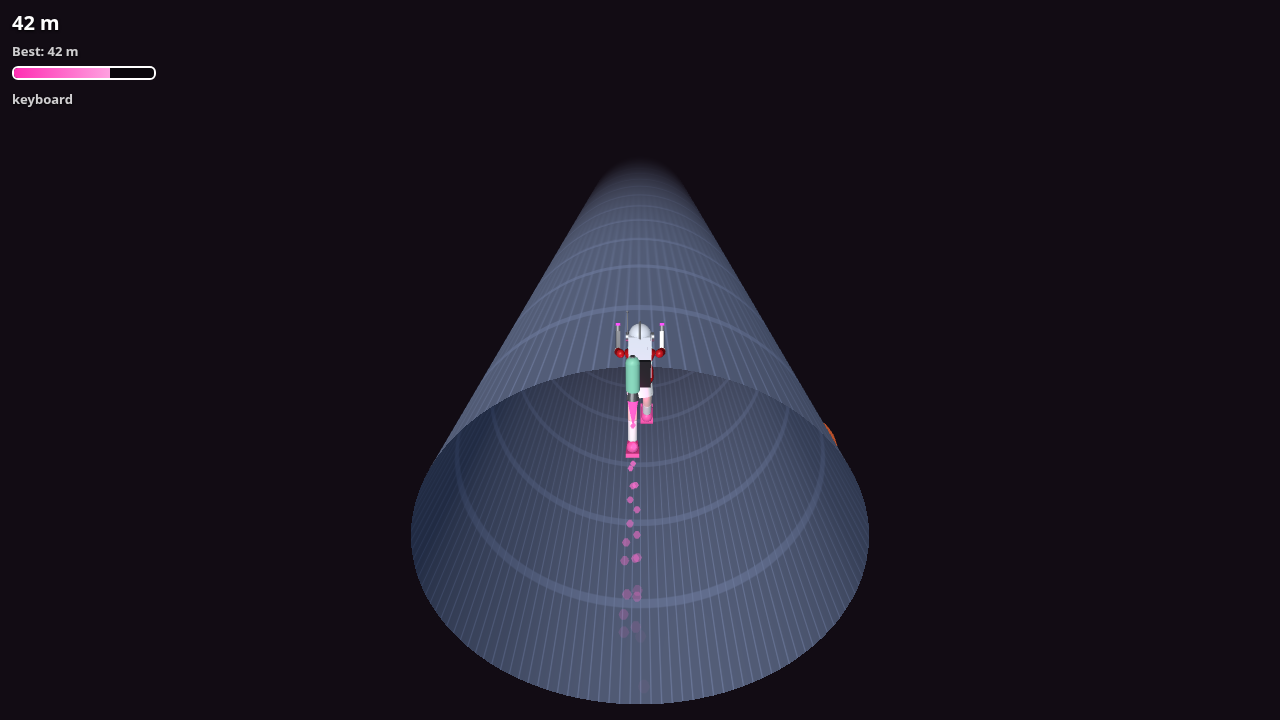
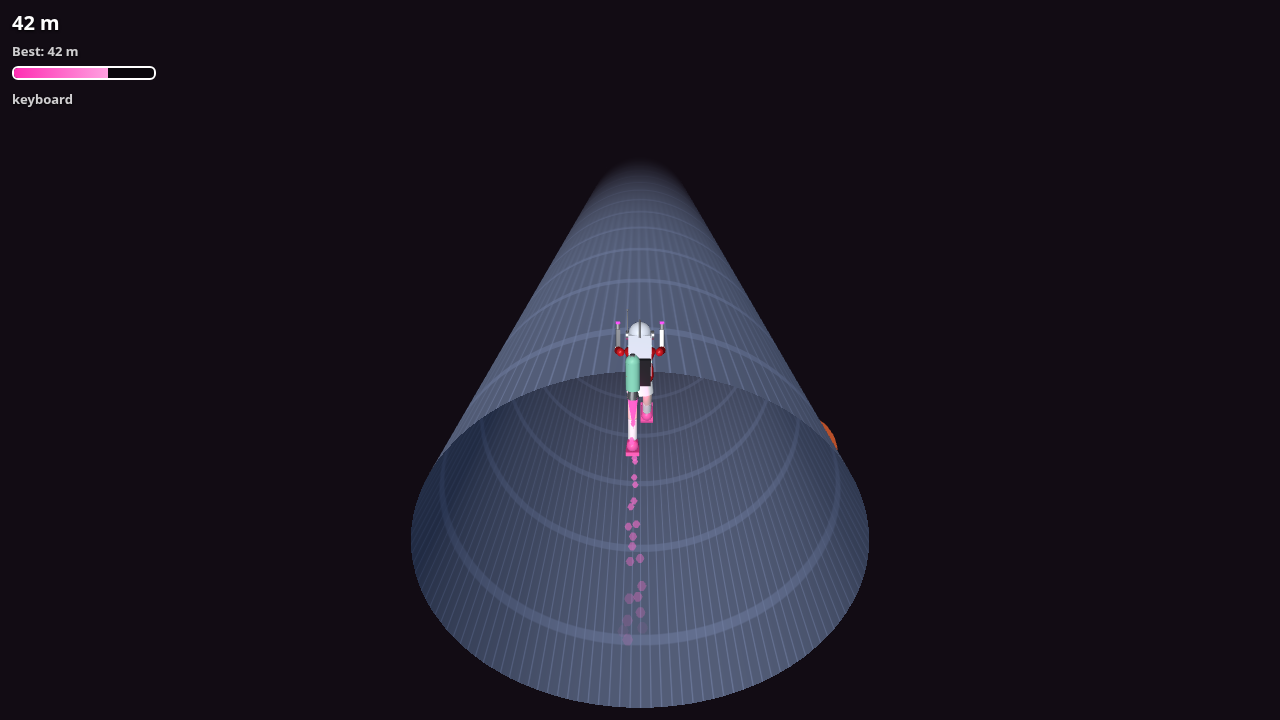
Enterable gaps (5s inside + ramp out), electric gaps, top speed 200, substep collision

diff --git a/index.html b/index.html
@@ -25,27 +25,27 @@ canvas{display:block;touch-action:none}
 <div id="over"><h1>Game Over</h1><div id="final"></div><button id="restart">Restart</button><small style="margin-top:8px;opacity:.7">Space / tap to restart</small></div>
 <script type="module">
 import * as THREE from 'three';
-const R=14, BASE=14.4, RAMP=0.5, RAMP_T=10, CAP=72, TURN_RATE=18/R /* ~74deg/s, 18 m/s surface (was 16) */, HOP_H=1.6, THRUST=36, VY_MAX=7.5, FUEL_TIME=1.6, FUEL_REFILL=0.7, MAX_ALT=9, JUMP_H=HOP_H, G=18,
+const R=14, BASE=14.4, RAMP=0.5, RAMP_T=10, CAP=200, TURN_RATE=18/R /* ~74deg/s, 18 m/s surface (was 16) */, HOP_H=1.6, THRUST=36, VY_MAX=7.5, FUEL_TIME=1.6, FUEL_REFILL=0.7, MAX_ALT=9, JUMP_H=HOP_H, G=18,
   V0=Math.sqrt(2*G*JUMP_H), COYOTE=0.12, BUFFER=0.1, CAM_D=10.5, CAM_H=8.5, CAM_FOLLOW=4.5;
 const renderer=new THREE.WebGLRenderer({antialias:true});
 renderer.setPixelRatio(Math.min(devicePixelRatio,2));renderer.setSize(innerWidth,innerHeight);
 document.body.appendChild(renderer.domElement);
 const scene=new THREE.Scene();scene.background=new THREE.Color(0x120c14);scene.fog=new THREE.Fog(0x120c14,40,150);
 {const dimSun=new THREE.Mesh(new THREE.SphereGeometry(14,24,16),new THREE.MeshBasicMaterial({color:0xb8502a,fog:false}));dimSun.position.set(-60,-150,-90);scene.add(dimSun);}
-const camera=new THREE.PerspectiveCamera(70,innerWidth/innerHeight,0.1,400);
+const camera=new THREE.PerspectiveCamera(70,innerWidth/innerHeight,0.1,2000);
 scene.add(new THREE.HemisphereLight(0xbfd8ff,0x202030,1.1));
 const sun=new THREE.DirectionalLight(0xffffff,1.2);sun.position.set(10,30,10);scene.add(sun);scene.add(camera);const camLight=new THREE.DirectionalLight(0xffffff,1.4);camLight.position.set(0,2,1);camera.add(camLight);camLight.target.position.set(0,0,-10);camera.add(camLight.target);
 // tube: vertical cylinder along Y, Vic runs downward (-Y). Texture scrolls to show motion.
 const cv=document.createElement('canvas');cv.width=256;cv.height=256;const cx=cv.getContext('2d');
 cx.fillStyle='#2a3350';cx.fillRect(0,0,256,256);cx.fillStyle='#3d4a75';cx.fillRect(0,0,256,24);
 cx.fillStyle='#4f5f95';for(let i=0;i<8;i++)cx.fillRect(i*32,0,3,256);
-const tex=new THREE.CanvasTexture(cv);tex.wrapS=tex.wrapT=THREE.RepeatWrapping;tex.repeat.set(14,60);
+const tex=new THREE.CanvasTexture(cv);tex.wrapS=tex.wrapT=THREE.RepeatWrapping;tex.repeat.set(14,300);
 const GAPN=4,gapU={value:Array.from({length:GAPN},()=>new THREE.Vector2(1e5,1e5))};
 const tubeMat=new THREE.MeshStandardMaterial({map:tex,roughness:.8,side:THREE.DoubleSide});
 tubeMat.onBeforeCompile=sh=>{sh.uniforms.gaps=gapU;
  sh.vertexShader=sh.vertexShader.replace('#include <common>','#include <common>\nvarying float vWY;').replace('#include <project_vertex>','#include <project_vertex>\nvWY=(modelMatrix*vec4(transformed,1.0)).y;');
  sh.fragmentShader=sh.fragmentShader.replace('#include <common>','#include <common>\nvarying float vWY;uniform vec2 gaps['+GAPN+'];').replace('void main() {','void main() {\nfor(int i=0;i<'+GAPN+';i++){if(vWY>gaps[i].x&&vWY<gaps[i].y)discard;}');};
-const tube=new THREE.Mesh(new THREE.CylinderGeometry(R,R,600,96,1,true),tubeMat);tube.position.y=-150;
+const tube=new THREE.Mesh(new THREE.CylinderGeometry(R,R,3000,96,1,true),tubeMat);tube.position.y=-1400;
 scene.add(tube);
 // Vic placeholder capsule (no reference model found) — FLAGGED
 const vic=new THREE.Group();
@@ -111,7 +111,7 @@ const OBS_HALF={t:1.5,r:0.45,a:0.3};
 const meteors=[],craters=[],gaps=[];let pad=null;let st,camTheta0=true;const obstacles=[];
 const best=()=>+(localStorage.getItem('vicRouteBest')||0);
 function reset(){for(const o of obstacles)scene.remove(o.mesh);obstacles.length=0;if(typeof clearMeteors==='function')clearMeteors();if(typeof clearGaps==='function')clearGaps();
- st={theta:0,y:0,vy:0,grounded:true,lastGround:0,bufferT:-1,speed:BASE,t:0,dist:0,spawnIn:1.5,over:false,frames:0,impacts:0,meteorIn:0,killedBy:null,spawnLo:1.8,spawnHi:3.2,difficulty:0,gapIn:8,gapsCrossed:0,boost:0,boosted:false,padAy:-50,padDone:false,te:0,spins:0,jumps:0,fuel:1,thrusting:false,jumpT:0,maxY:0,camTheta:0,lean:0};camTheta0=true;
+ st={theta:0,y:0,vy:0,grounded:true,lastGround:0,bufferT:-1,speed:BASE,t:0,dist:0,spawnIn:1.5,over:false,frames:0,impacts:0,meteorIn:0,killedBy:null,spawnLo:1.8,spawnHi:3.2,difficulty:0,gapIn:8,side:'out',prevS:R,zone:'tube',entered:0,exited:0,inDur:0,inT0:0,electricCrossed:0,gapsCrossed:0,boost:0,boosted:false,padAy:-50,padDone:false,te:0,spins:0,jumps:0,fuel:1,thrusting:false,jumpT:0,maxY:0,camTheta:0,lean:0};camTheta0=true;
  document.getElementById('over').style.display='none';if(pad){pad.visible=true;placePad();}}
 reset();
 const keys={left:false,right:false,jump:false};const touchHold={left:false,right:false,jump:false};const tapPend={left:0,right:0};
@@ -141,15 +141,15 @@ document.addEventListener('touchmove',e=>e.preventDefault(),{passive:false});
 document.addEventListener('gesturestart',e=>e.preventDefault());
 document.getElementById('restart').addEventListener('click',()=>reset());
 addEventListener('resize',()=>{camera.aspect=innerWidth/innerHeight;camera.updateProjectionMatrix();renderer.setSize(innerWidth,innerHeight);});
-function spawn(th){const m=new THREE.Mesh(obsGeo,obsMat);const o={mesh:m,theta:th??Math.random()*Math.PI*2,ay:-90};
+function spawn(th){const m=new THREE.Mesh(obsGeo,obsMat);const o={mesh:m,theta:th??Math.random()*Math.PI*2,ay:SPAWN_AY()};
  scene.add(m);obstacles.push(o);placeObs(o);return o.theta;}
 function placeObs(o){const r=R+OBS_HALF.r;o.mesh.position.set(Math.sin(o.theta)*r,o.ay,Math.cos(o.theta)*r);o.mesh.rotation.set(0,o.theta,0);}
 function angDiff(a,b){let d=a-b;d=Math.atan2(Math.sin(d),Math.cos(d));return d;}
-function collide(o){if(!st.grounded)return false; // spec: collision only while not airborne
+function collide(o){if(!st.grounded||st.side!=='out')return false; // spec: collision only while not airborne
  const arc=Math.abs(angDiff(o.theta,st.theta))*R; const ax=Math.abs(o.ay-0);
  return arc<VIC_HALF.x+OBS_HALF.t && ax<VIC_HALF.z+OBS_HALF.a && st.y<OBS_HALF.r*2;}
 function gameOver(by){st.over=true;st.killedBy=by||'barrier';const m=Math.floor(st.dist);if(m>best())localStorage.setItem('vicRouteBest',m);
- document.getElementById('final').textContent=`${st.killedBy==='barrier'?'':st.killedBy==='gap'?'Fell into the gap! ':'Knocked out by a '+st.killedBy+'! '}${m} m — Best ${best()} m`;document.getElementById('over').style.display='flex';}
+ document.getElementById('final').textContent=`${st.killedBy==='barrier'?'':st.killedBy==='gap'?'Fell into the gap! ':st.killedBy==='electric'?'Electrocuted! ':'Knocked out by a '+st.killedBy+'! '}${m} m — Best ${best()} m`;document.getElementById('over').style.display='flex';}
 
 // ---------- Boost pad ----------
 const surf=(th,h,ay,v=new THREE.Vector3())=>v.set(Math.sin(th)*(R+h),ay,Math.cos(th)*(R+h));
@@ -167,30 +167,64 @@ function updatePad(dt){if(st.padDone)return;st.padAy+=st.speed*dt;placePad();pad
 placePad();
 
 // ---------- Tube gaps ----------
+// Two kinds. 'enter': open cut (hole) -> drop inside, run on inner wall ~5s, flared ramp lifts her back out over a short exit cut.
+// 'electric': covered cut with live energy field; touching it = death; must jump+jetpack over.
 // Max airtime with full fuel: hop 0.12s + thrust FUEL_TIME (vy capped VY_MAX, alt capped MAX_ALT) + free fall from MAX_ALT.
 const AIR_MAX=0.12+FUEL_TIME+Math.sqrt(2*MAX_ALT/G); // ~2.72s
 const HOP_AIR=2*V0/G;                                  // ~0.84s (tap only - not enough)
-const GAP_AIR=1.35;                                    // gap needs 1.35s airtime: > hop, ~50% of max
-const stripeTex=(()=>{const c=document.createElement('canvas');c.width=256;c.height=32;const x=c.getContext('2d');x.fillStyle='#111';x.fillRect(0,0,256,32);x.fillStyle='#ffcc00';
- for(let i=-2;i<20;i++){x.beginPath();x.moveTo(i*16,32);x.lineTo(i*16+8,32);x.lineTo(i*16+24,0);x.lineTo(i*16+16,0);x.fill();}const t=new THREE.CanvasTexture(c);t.wrapS=THREE.RepeatWrapping;t.repeat.set(10,1);return t;})();
-const stripeMat=new THREE.MeshBasicMaterial({map:stripeTex,side:THREE.DoubleSide,fog:false});
-const edgeMat=new THREE.MeshBasicMaterial({color:0xff4020,fog:false});
-function gapLen(sp){return sp*GAP_AIR;}
-function spawnGap(near){const L=gapLen(st.speed);if(near===undefined)near=-90-st.speed*2;
- const grp=new THREE.Group();
- const band=(y)=>{const m=new THREE.Mesh(new THREE.CylinderGeometry(R+0.03,R+0.03,3,96,1,true),stripeMat);m.position.y=y;grp.add(m);};
- const ring=(y)=>{const m=new THREE.Mesh(new THREE.TorusGeometry(R+0.05,0.18,8,96),edgeMat);m.rotation.x=Math.PI/2;m.position.y=y;grp.add(m);};
- /* no warning visuals: clean cut only (shader discard) */
- scene.add(grp);const g={near,L,grp};gaps.push(g);grp.position.y=near;return g;}
-function overGap(){for(const g of gaps)if(0<g.near&&0>g.near-g.L)return g;return null;}
+const GAP_AIR=1.35;                                    // electric gap needs 1.35s airtime: > hop, ~50% of max
+const INSIDE_T=5, FLARE_H=3, DEEP=4.5;
+const SPAWN_AY=()=>-Math.max(90,st.speed*1.5);
+const flareMat=new THREE.MeshStandardMaterial({map:tex,roughness:.8,side:THREE.DoubleSide});
+const coverMat=new THREE.MeshBasicMaterial({color:0x66ccff,transparent:true,opacity:.25,side:THREE.DoubleSide,blending:THREE.AdditiveBlending,depthWrite:false});
+const arcMat=new THREE.LineBasicMaterial({color:0xe8f6ff,transparent:true,opacity:.95,blending:THREE.AdditiveBlending,depthWrite:false});
+const ARCS=16,ARC_SEG=10;
+function spawnGap(near,kind){const sp=st.speed;if(near===undefined)near=SPAWN_AY()-sp*2;if(!kind)kind=Math.random()<0.5?'electric':'enter';
+ const grp=new THREE.Group();const g={kind,near,grp};
+ if(kind==='electric'){g.L=sp*GAP_AIR;
+  const cov=new THREE.Mesh(new THREE.CylinderGeometry(R+0.02,R+0.02,g.L,96,1,true),coverMat.clone());cov.position.y=-g.L/2;grp.add(cov);g.cover=cov;
+  const geo=new THREE.BufferGeometry();geo.setAttribute('position',new THREE.BufferAttribute(new Float32Array(ARCS*ARC_SEG*2*3),3));
+  const arcs=new THREE.LineSegments(geo,arcMat);arcs.frustumCulled=false;grp.add(arcs);g.arcs=arcs;g.arcT=0;
+  const lt=new THREE.PointLight(0x88ccff,40,30);lt.position.set(0,-4,R+2);grp.add(lt);g.light=lt;
+  // edge arcs ring along the rims make it read as a live field
+ } else {g.Lo=Math.max(5,sp*0.55);g.Li=sp*INSIDE_T;g.Lf=Math.max(8,sp*0.4);g.Le=Math.max(4,sp*0.3);g.L=g.Lo+g.Li+g.Lf+g.Le;
+  const fl=new THREE.Mesh(new THREE.CylinderGeometry(R,R+FLARE_H,g.Lf,96,1,true),flareMat);fl.position.y=-(g.Lo+g.Li+g.Lf/2);grp.add(fl);}
+ scene.add(grp);gaps.push(g);grp.position.y=near;if(g.arcs)zapArcs(g);return g;}
+function zapArcs(g){const a=g.arcs.geometry.attributes.position.array;let k=0;
+ for(let i=0;i<ARCS;i++){let th=Math.random()*Math.PI*2,y=-Math.random()*g.L;const len=4+Math.random()*12;
+  for(let j=0;j<ARC_SEG;j++){const th2=th+(Math.random()-.5)*0.25,y2=Math.max(-g.L,Math.min(0,y-len/ARC_SEG+(Math.random()-.5)*1.5)),h=0.1+Math.random()*0.5;
+   a[k++]=Math.sin(th)*(R+h);a[k++]=y;a[k++]=Math.cos(th)*(R+h);a[k++]=Math.sin(th2)*(R+h);a[k++]=y2;a[k++]=Math.cos(th2)*(R+h);th=th2;y=y2;}}
+ g.arcs.geometry.attributes.position.needsUpdate=true;}
+function zoneAt(){for(const g of gaps){const p=g.near;if(p<0||p>g.L)continue;
+ if(g.kind==='electric')return {zone:'electric',ground:true,S:R,g,p};
+ if(p<g.Lo)return {zone:'hole',ground:false,S:R,g,p};
+ if(p<g.Lo+g.Li)return {zone:'interior',ground:true,S:R,g,p};
+ if(p<g.Lo+g.Li+g.Lf)return {zone:'flare',ground:true,S:R+FLARE_H*(p-g.Lo-g.Li)/g.Lf,g,p};
+ return {zone:'exit',ground:false,S:R,g,p};}
+ return {zone:'tube',ground:true,S:R};}
+// vertical physics incl. gap surfaces; y = height above current surface on the side she runs (out: outward, in: toward axis)
+function vertPhys(dt){const z=zoneAt(),S=z.S,pS=st.prevS;let adj=true;
+ if(st.side==='out'&&st.y<0&&z.zone==='interior'){st.side='in';st.y=-st.y;st.vy=-st.vy;st.grounded=false;st.entered++;st.inT0=st.t;}
+ if(st.side==='in'&&z.zone!=='interior'&&z.zone!=='flare'){const r=pS-st.y;st.side='out';st.y=Math.max(0.5,r-R);st.vy=Math.max(-st.vy,0)+3;st.grounded=false;st.exited++;st.inDur=st.t-st.inT0;adj=false;}
+ if(adj&&S!==pS&&!(st.grounded&&z.ground))st.y+=st.side==='out'?pS-S:S-pS;
+ if(st.grounded&&!z.ground){st.grounded=false;if(pS>R+0.5)st.vy=Math.max(st.vy,3);}
+ if(!st.grounded){const y0=st.y;st.vy-=G*dt;st.y+=st.vy*dt;if(st.y>MAX_ALT){st.y=MAX_ALT;st.vy=Math.min(st.vy,0);}st.maxY=Math.max(st.maxY,st.y);
+  if(st.y<=0&&z.ground&&y0>=-0.01){st.y=0;st.vy=0;st.grounded=true;}}
+ st.prevS=S;st.zone=z.zone;st.S=S;
+ if(st.side==='out'){if(z.zone==='electric'&&st.y<=0.05){gameOver('electric');return;}
+  if(st.y<-DEEP||(st.y<0&&(z.zone==='tube'||z.zone==='flare'))){gameOver('gap');return;}}}
 function updateGaps(dt,move){
- // schedule: after 20s real time & pad passed; clean lead-in (no obstacles/meteors/craters) so fuel is full
+ // schedule: after 20s real time & pad passed; spawned 2s behind the obstacle spawn line -> clean lead-in, full fuel
  st.gapIn-=dt;
  if(st.t>20&&st.padDone&&st.gapIn<=0&&!gaps.length&&!meteors.length&&!craters.length){
-  const g=spawnGap(-90-st.speed*2); /* 2s clean lead-in behind the obstacle spawn line */st.spawnIn=Math.max(st.spawnIn,(g.L+st.speed*1.0)/st.speed+0.2);st.gapIn=Math.max(9,26-16*st.difficulty)+Math.random()*8;}
- for(let i=gaps.length-1;i>=0;i--){const g=gaps[i];g.near+=move;g.grp.position.y=g.near;if(g.near-g.L>25){scene.remove(g.grp);gaps.splice(i,1);st.gapsCrossed++;}}
- for(let i=0;i<GAPN;i++){const g=gaps[i];gapU.value[i].set(g?g.near-g.L:1e5,g?g.near:1e5);}
- if(st.grounded&&overGap()){gameOver('gap');}}
+  const g=spawnGap();st.gapIn=Math.max(9,26-16*st.difficulty)+Math.random()*8;}
+ for(let i=gaps.length-1;i>=0;i--){const g=gaps[i];g.near+=move;g.grp.position.y=g.near;
+  if(g.kind==='electric'){g.arcT-=dt;if(g.arcT<=0){zapArcs(g);g.arcT=0.05;}g.cover.material.opacity=0.18+0.14*Math.random();g.light.intensity=25+30*Math.random();}
+  if(g.near-g.L>25){scene.remove(g.grp);gaps.splice(i,1);st.gapsCrossed++;if(g.kind==='electric')st.electricCrossed++;}}
+ for(let i=0;i<GAPN;i++)gapU.value[i].set(1e5,1e5);let u=0;
+ for(const g of gaps){if(u>=GAPN-1)break;
+  if(g.kind==='electric')gapU.value[u++].set(g.near-g.L,g.near);
+  else{gapU.value[u++].set(g.near-g.Lo,g.near);gapU.value[u++].set(g.near-g.L,g.near-g.Lo-g.Li);}}}
 function clearGaps(){for(const g of gaps)scene.remove(g.grp);gaps.length=0;for(const v of gapU.value)v.set(1e5,1e5);}
 
 // ---------- Meteors ----------
@@ -245,7 +279,7 @@ const clock=new THREE.Clock();const camPos=new THREE.Vector3(0,CAM_D,R+CAM_H);co
 let simT=0;function step(dt){st.frames++;simT+=dt;
  if(!st.over){st.t+=dt;
   const L=keys.left||touchHold.left||tapPend.left,Rt=keys.right||touchHold.right||tapPend.right;tapPend.left=tapPend.right=0;
-  const dir=(L?1:0)-(Rt?1:0);/* +theta = screen-left */if(dir){st.theta+=dir*TURN_RATE*dt;st.spins++;}st.lean+=(dir-st.lean)*(1-Math.exp(-10*dt));
+  const dir=((L?1:0)-(Rt?1:0))*(st.side==='in'?-1:1);/* +theta = screen-left outside; camera is flipped inside */if(dir){st.theta+=dir*TURN_RATE*dt;st.spins++;}st.lean+=(dir-st.lean)*(1-Math.exp(-10*dt));
   updatePad(dt);const te=st.t+st.boost;st.te=te;
   st.speed=Math.min(CAP,BASE+0.144*te+0.00048*te*te);st.difficulty=Math.min(1,te/150);st.spawnLo=1.8-1.1*st.difficulty;st.spawnHi=3.2-2.0*st.difficulty;
   const move=st.speed*dt;st.dist+=move;tex.offset.y-=move/300*30;
@@ -255,34 +289,37 @@ let simT=0;function step(dt){st.frames++;simT+=dt;
   const held=keys.jump||touchHold.jump;
   st.thrusting=!st.grounded&&held&&st.fuel>0&&st.t-st.jumpT>0.12;
   if(st.thrusting){st.fuel=Math.max(0,st.fuel-dt/FUEL_TIME);st.vy=Math.min(VY_MAX,st.vy+THRUST*dt);}
-  if(!st.grounded){st.vy-=G*dt;st.y+=st.vy*dt;if(st.y>MAX_ALT){st.y=MAX_ALT;st.vy=Math.min(st.vy,0);}st.maxY=Math.max(st.maxY,st.y);if(st.y<=0){st.y=0;st.vy=0;st.grounded=true;}}
+  vertPhys(dt);if(st.over)return;
   if(st.grounded)st.fuel=Math.min(1,st.fuel+FUEL_REFILL*dt);
   document.getElementById('fuel').style.width=(st.fuel*100).toFixed(1)+'%';
-  st.spawnIn-=dt;if(st.spawnIn<=0&&gaps.some(g=>g.near-g.L<-90+st.speed*0.8))st.spawnIn=0.2;if(st.spawnIn<=0){const th=spawn();if(st.difficulty>0.35&&Math.random()<0.45*st.difficulty)spawn(th+(Math.PI/3+Math.random()*Math.PI*0.8)*(Math.random()<.5?-1:1));st.spawnIn=st.spawnLo+Math.random()*(st.spawnHi-st.spawnLo);}
+  st.spawnIn-=dt;if(st.spawnIn<=0&&gaps.some(g=>g.near-g.L<SPAWN_AY()+st.speed*0.8))st.spawnIn=0.2;if(st.spawnIn<=0){const th=spawn();if(st.difficulty>0.35&&Math.random()<0.45*st.difficulty)spawn(th+(Math.PI/3+Math.random()*Math.PI*0.8)*(Math.random()<.5?-1:1));st.spawnIn=st.spawnLo+Math.random()*(st.spawnHi-st.spawnLo);}
   updateMeteors(dt,move);if(st.over)return;updateGaps(dt,move);if(st.over)return;
   for(let i=obstacles.length-1;i>=0;i--){const o=obstacles[i];o.ay+=move;placeObs(o);
    if(o.ay>20){scene.remove(o.mesh);obstacles.splice(i,1);continue;}
    if(collide(o)){gameOver();break;}}
   const ph=st.grounded?Math.sin(st.t*(8+st.speed*0.25)):0;legL.rotation.x=ph*0.7;legR.rotation.x=-ph*0.7;armL.rotation.x=-1.2-ph*0.35;armR.rotation.x=-1.2+ph*0.35;if(!st.grounded){legL.rotation.x=-0.6;legR.rotation.x=0.3;}}
  // place vic: pivot rotates around Y by theta; vic sits at radius R + y, facing -world Y
- vicPivot.rotation.y=st.theta;vic.position.set(0,0,R+st.y);vic.rotation.set(Math.PI/2+vic.rotation.x*0,0,0);
- vic.rotation.x=Math.PI/2;vic.rotation.y=-st.lean*0.5;vic.rotation.z=0;vic.rotateZ(-st.lean*0.25); // local +Y -> outward(+Z pivot), local +Z -> down(-Y world)
+ const IN=st.side==='in',SS=st.S||R;vicPivot.rotation.y=st.theta;vic.position.set(0,0,IN?SS-st.y:SS+st.y);vic.rotation.set(Math.PI/2+vic.rotation.x*0,0,0);
+ vic.rotation.x=Math.PI/2;vic.rotation.y=-st.lean*0.5;vic.rotation.z=0;vic.rotateZ(-st.lean*0.25);if(IN)vic.rotateZ(Math.PI); // local +Y -> outward(+Z pivot), local +Z -> down(-Y world)
  if(camTheta0){st.camTheta=st.theta;camTheta0=false;}
  st.camTheta+=angDiff(st.theta,st.camTheta)*(1-Math.exp(-CAM_FOLLOW*dt));
  flame.visible=st.thrusting;if(st.thrusting){flame.scale.set(1,0.8+Math.random()*0.6,1);
   for(let n=0;n<2;n++){const p=parts[pIdx++%PN];const w=flame.getWorldPosition(new THREE.Vector3());p.m.position.copy(w);p.life=0.4;p.m.visible=true;p.m.material.color.set(0xff6fd0);
-   const nrm=new THREE.Vector3(Math.sin(st.theta),0,Math.cos(st.theta));p.v.copy(nrm).multiplyScalar(-4-Math.random()*2).add(new THREE.Vector3((Math.random()-.5)*1.5,6+Math.random()*3,(Math.random()-.5)*1.5));}}
+   const nrm=new THREE.Vector3(Math.sin(st.theta),0,Math.cos(st.theta)).multiplyScalar(IN?-1:1);p.v.copy(nrm).multiplyScalar(-4-Math.random()*2).add(new THREE.Vector3((Math.random()-.5)*1.5,6+Math.random()*3,(Math.random()-.5)*1.5));}}
  for(const p of parts){if(p.life>0){p.life-=dt;p.m.position.addScaledVector(p.v,dt);p.m.material.opacity=Math.max(0,p.life/0.4);p.m.scale.setScalar(1+(0.4-p.life)*4);if(p.life<=0)p.m.visible=false;}}
  const s=Math.sin(st.camTheta),c=Math.cos(st.camTheta);
- const target=new THREE.Vector3(s*(R+CAM_H+st.y*0.9),CAM_D,c*(R+CAM_H+st.y*0.9));
+ const cr=IN?Math.max(2,SS-5.5-st.y*0.9):SS+CAM_H+st.y*0.9,lr=IN?SS-1-st.y*0.85:SS+1+st.y*0.85;const target=new THREE.Vector3(s*cr,CAM_D,c*cr);
  const k=1-Math.exp(-8*dt);camPos.lerp(target,k);camera.position.copy(camPos);
- look.set(s*(R+1+st.y*0.85),-4,c*(R+1+st.y*0.85));camera.up.set(s,0,c);camera.lookAt(look);
+ look.set(s*lr,-4,c*lr);camera.up.set(IN?-s:s,0,IN?-c:c);camera.lookAt(look);
  if(CLOSEUP){const v=vic.getWorldPosition(new THREE.Vector3());const n=new THREE.Vector3(s,0,c);camera.position.copy(v).addScaledVector(n,1.6).add(new THREE.Vector3(0,-4.5,0));camera.up.copy(n);camera.lookAt(v.clone().addScaledVector(n,1.5));}
  document.getElementById('score').textContent=Math.floor(st.dist)+' m';
  document.getElementById('best').textContent='Best: '+Math.max(best(),Math.floor(st.dist))+' m';
 }
-renderer.setAnimationLoop(()=>{const dt=Math.min(clock.getDelta(),0.05);step(dt);renderer.render(scene,camera);});
-window.__game={get state(){return {...st,obstacles:obstacles.map(o=>({theta:o.theta,ay:o.ay})),meteors:meteors.map(m=>({kind:m.kind,theta:m.theta,ay:m.ay,t:m.t,lead:LEAD,ringVisible:m.ring.visible,rockScale:m.rock.scale.x,rockPos:m.rock.position.toArray()})),gaps:gaps.map(g=>({near:g.near,L:g.L})),craters:craters.map(c=>({theta:c.theta,ay:c.ay,life:c.life})),mode,vicPos:vic.getWorldPosition(new THREE.Vector3()).toArray()}},
+renderer.setAnimationLoop(()=>{const dt=Math.min(clock.getDelta(),0.05);
+ // substeps: never move more than ~0.8m per physics step (no tunneling at 200)
+ const n=Math.min(40,Math.max(1,Math.ceil(st.speed*dt/0.8)));for(let i=0;i<n;i++)step(dt/n);
+ scene.fog.far=Math.max(150,st.speed*1.8+20);scene.fog.near=scene.fog.far*0.27;renderer.render(scene,camera);});
+window.__game={get state(){return {...st,obstacles:obstacles.map(o=>({theta:o.theta,ay:o.ay})),meteors:meteors.map(m=>({kind:m.kind,theta:m.theta,ay:m.ay,t:m.t,lead:LEAD,ringVisible:m.ring.visible,rockScale:m.rock.scale.x,rockPos:m.rock.position.toArray()})),gaps:gaps.map(g=>({kind:g.kind,near:g.near,L:g.L,Lo:g.Lo,Li:g.Li,Lf:g.Lf,Le:g.Le})),craters:craters.map(c=>({theta:c.theta,ay:c.ay,life:c.life})),mode,vicPos:vic.getWorldPosition(new THREE.Vector3()).toArray()}},
  spawnAt(theta,ay){const m=new THREE.Mesh(obsGeo,obsMat);const o={mesh:m,theta,ay};scene.add(m);obstacles.push(o);placeObs(o);},
- get simT(){return simT},reset,jump:requestJump,spawnMeteor:(k,th,ay)=>spawnMeteor(k,th,ay),setTime:t=>{st.t=t;},consts:{R,BASE,CAP,V0,G,HOP_H,COYOTE,BUFFER,TURN_RATE,FUEL_TIME},placeholder:false,spawnGap:n=>{const g=spawnGap(n);return {near:g.near,L:g.L}},gapPhys:{AIR_MAX,HOP_AIR,GAP_AIR},clearAll(){for(const o of obstacles)scene.remove(o.mesh);obstacles.length=0;clearMeteors();st.spawnIn=99;st.meteorIn=99;st.gapIn=999;},skipPad(){st.padDone=true;pad.visible=false;},screenX(){const v=vic.getWorldPosition(new THREE.Vector3()).project(camera);return (v.x+1)/2*innerWidth;},project(a){const v=new THREE.Vector3(...a).project(camera);return [(v.x+1)/2*innerWidth,(1-v.y)/2*innerHeight,v.z];}};
+ get simT(){return simT},reset,jump:requestJump,spawnMeteor:(k,th,ay)=>spawnMeteor(k,th,ay),setTime:t=>{st.t=t;},consts:{R,BASE,CAP,V0,G,HOP_H,COYOTE,BUFFER,TURN_RATE,FUEL_TIME},placeholder:false,spawnGap:(n,k)=>{const g=spawnGap(n,k);return {kind:g.kind,near:g.near,L:g.L,Lo:g.Lo,Li:g.Li}},setGapIn:x=>{st.gapIn=x},setSpeedT:t=>{st.t=t},gapPhys:{AIR_MAX,HOP_AIR,GAP_AIR},clearAll(){for(const o of obstacles)scene.remove(o.mesh);obstacles.length=0;clearMeteors();st.spawnIn=99;st.meteorIn=99;st.gapIn=999;},skipPad(){st.padDone=true;pad.visible=false;},screenX(){const v=vic.getWorldPosition(new THREE.Vector3()).project(camera);return (v.x+1)/2*innerWidth;},project(a){const v=new THREE.Vector3(...a).project(camera);return [(v.x+1)/2*innerWidth,(1-v.y)/2*innerHeight,v.z];}};
 </script></body></html>
